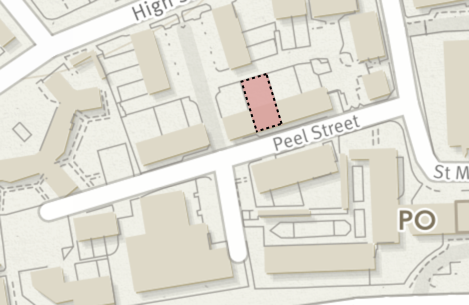
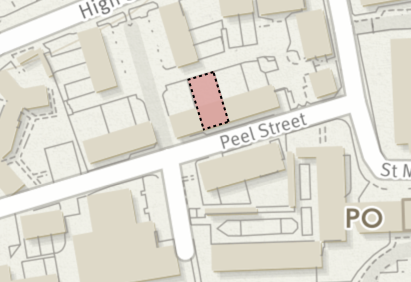
Title plan scripts added

diff --git a/app/views/v2/03-free-property-information.html b/app/views/v2/03-free-property-information.html
@@ -11,30 +11,22 @@
     <h1 class="govuk-heading-l">
       Property information
     </h1>
-  </div>
-</div>
-<div class="govuk-grid-row">
+    </div>
     <div class="govuk-grid-column-two-thirds">
         <div class="app-flex-grid app-address-display">
             <p class="app-flex-item app-flex-grid-header">Address:</p>
             <p id="app-address-to-display" class="app-flex-item app-flex-grid-body">
             </p>
         </div>
-    </div>
-    <div class="govuk-grid-column-one-third">
-        <img src="{{ asset_path }}/images/clinton-street-extent.png" class="app-map">
-    </div>
-</div>
-<div class="govuk-grid-row">
-    <div class="govuk-grid-column-two-thirds">
+
         <p>There's <b>1</b> property record (title) for this address.</p>
 
         <dl class="govuk-summary-list">
             <div class="govuk-summary-list__row">
-              <dt class="govuk-summary-list__key">
+                <dt class="govuk-summary-list__key">
                 Tenure type
-              </dt>
-              <dd class="govuk-summary-list__value">
+                </dt>
+                <dd class="govuk-summary-list__value">
                 Freehold<br>
                 <details class="govuk-details">
                     <summary class="govuk-details__summary">
@@ -48,103 +40,90 @@
                             <p> <b> If you want to know who owns a particular flat, you probably need the leasehold instead. </b> </p>
                             <p> Houses can also be leasehold and usually are if they’re bought through a shared ownership scheme.</p>
                         </div>
-                 </details>
-              </dd>
+                    </details>
+                </dd>
             </div>
             <div class="govuk-summary-list__row">
-              <dt class="govuk-summary-list__key">
+                <dt class="govuk-summary-list__key">
                 Most recent price paid
-              </dt>
-              <dd class="govuk-summary-list__value">
+                </dt>
+                <dd class="govuk-summary-list__value">
                 This property sold for <b> <span id="app-property-price">&pound;300,000</span> </b> on <b> <span id="app-property-sold-date">15 May 2014</span></b>
-              </dd>
+                </dd>
             </div>
             <div class="govuk-summary-list__row">
-              <dt class="govuk-summary-list__key">
+                <dt class="govuk-summary-list__key">
                 Restrictive covenants
-              </dt>
-<<<<<<< HEAD
-              <dd class="govuk-summary-list__value" id="app-covenants-indicator">
+                </dt>
+                <dd class="govuk-summary-list__value" id="app-covenants-indicator">
                 There are restrictive covenants recorded in the register- to view details you'll need to pay a fee
-=======
-              <dd class="govuk-summary-list__value">
-                There are restrictive covenants recorded in the register
-                <b> OR</b> There are restrictive covenants recorded in the register - for more details you'll need to pay a fee. 
->>>>>>> 107130a1b7d9a66dd11979e81c16bada575e51e7
-              </dd>
+                </dd>
             </div>
             <div class="govuk-summary-list__row">
-              <dt class="govuk-summary-list__key">
-               Easements
-              </dt>
-<<<<<<< HEAD
-              <dd class="govuk-summary-list__value" id="app-easements-indicator">
+                <dt class="govuk-summary-list__key">
+                Easements
+                </dt>
+                <dd class="govuk-summary-list__value" id="app-easements-indicator">
                 There are easements recorded in the register- to view details you'll need to pay a fee
-=======
-              <dd class="govuk-summary-list__value">
-                There are no easements recorded in the register
->>>>>>> 107130a1b7d9a66dd11979e81c16bada575e51e7
-              </dd>
+                </dd>
             </div>
         </dl>
 
         <p class="govuk-!-font-weight-bold">Keep a copy of the information on this page for free:</p>
 
-            <ul class="govuk-list govuk-list--bullet">
-              <li> <a href="print"> print </a>
-              <li> <a href="download"> download </a>
-              <li> <a href="forward to an email address"> forward to an email address </a>
-            </ul>
+        <ul class="govuk-list govuk-list--bullet">
+            <li> <a href="print"> print </a>
+            <li> <a href="download"> download </a>
+            <li> <a href="forward to an email address"> forward to an email address </a>
+        </ul>
 
-            <div class="govuk-warning-text">
-                <span class="govuk-warning-text__icon app-information-icon" aria-hidden="true">i</span>
-                <strong class="govuk-warning-text__text">
-                    <span class="govuk-warning-text__assistive">Information</span>
-                    We may have more information about this property if it's been recorded in the register.
-                </strong>
-            </div>
+        <div class="govuk-warning-text">
+            <span class="govuk-warning-text__icon app-information-icon" aria-hidden="true">i</span>
+            <strong class="govuk-warning-text__text">
+                <span class="govuk-warning-text__assistive">Information</span>
+                We may have more information about this property if it's been recorded in the register.
+            </strong>
+        </div>
 
-            <p>You'll need an email address and a debit or credit card to view:</p>
-            <ul class="govuk-list govuk-list--bullet">
-                <li>a summary of the property ownership</li>
-                <li>if there's a mortgage and who the lender is</li>
-                <li>details of any restrictive covenants- these limit what the owner can legally do with their property </li>
-                <li>details of any easements- rights to cross or otherwise use someone else's land for a specified purpose </li>
-                <li>the title extent for leasehold properties</li>
-                <li>a copy of the register</li>
-            </ul>
+        <p>You'll need an email address and a debit or credit card to view:</p>
+        <ul class="govuk-list govuk-list--bullet">
+            <li>a summary of the property ownership</li>
+            <li>if there's a mortgage and who the lender is</li>
+            <li>details of any restrictive covenants- these limit what the owner can legally do with their property </li>
+            <li>details of any easements- rights to cross or otherwise use someone else's land for a specified purpose </li>
+            <li>the title extent for leasehold properties</li>
+            <li>a copy of the register</li>
+        </ul>
 
-            <table class="govuk-table">
-                <caption class="govuk-table__caption">Fees</caption>
-                <thead class="govuk-table__head">
-                    <tr class="govuk-table__row">
-                        <th class="govuk-table__header" scope="col">Thing</th>
-                        <th class="govuk-table__header" scope="col">Price</th>
-                    </tr>
-                </thead>
-                <tbody class="govuk-table__body">
-                    <tr class="govuk-table__row">
-                        <th class="govuk-table__header" scope="row">A</th>
-                        <td class="govuk-table__cell">&pound;tbc</td>
-                    </tr>
-                    <tr class="govuk-table__row">
-                        <th class="govuk-table__header" scope="row">B</th>
-                        <td class="govuk-table__cell">&pound;tbc</td>
-                    </tr>
-                    <tr class="govuk-table__row">
-                        <th class="govuk-table__header" scope="row">C</th>
-                        <td class="govuk-table__cell">&pound;tbc</td>
-                    </tr>
-                </tbody>
-            </table>
+        <table class="govuk-table">
+            <caption class="govuk-table__caption">Fees</caption>
+            <thead class="govuk-table__head">
+                <tr class="govuk-table__row">
+                    <th class="govuk-table__header" scope="col">Thing</th>
+                    <th class="govuk-table__header" scope="col">Price</th>
+                </tr>
+            </thead>
+            <tbody class="govuk-table__body">
+                <tr class="govuk-table__row">
+                    <th class="govuk-table__header" scope="row">A</th>
+                    <td class="govuk-table__cell">&pound;tbc</td>
+                </tr>
+                <tr class="govuk-table__row">
+                    <th class="govuk-table__header" scope="row">B</th>
+                    <td class="govuk-table__cell">&pound;tbc</td>
+                </tr>
+                <tr class="govuk-table__row">
+                    <th class="govuk-table__header" scope="row">C</th>
+                    <td class="govuk-table__cell">&pound;tbc</td>
+                </tr>
+            </tbody>
+        </table>
 
         <p><a href="04-email" role="button" class="govuk-button govuk-!-margin-top-2 govuk-!-margin-bottom-8">Continue</a></p>
     </div>
+    <div class="govuk-grid-column-one-third">
+        <img src="" class="app-map">
+        <p><a href="00-view-title-plan" id="app-link-from-03">View title plan</a></p>
+    </div>
 </div>
-
-<script>
-    let test = sessionStorage.getItem('address');
-    console.log(test);
-</script>
-
 {% endblock %}

diff --git a/app/assets/javascripts/application.js b/app/assets/javascripts/application.js
@@ -31,8 +31,15 @@ $(document).ready(function () {
     $('#app-address-to-display, .app-address-to-display').html($addressToDisplay + '<br>Plymouth<br>PL1 3SB');
     $('#app-easements-indicator').text('There are no easements recorded in the register');
     $('#app-covenants-indicator').text('There are no restrictive covenants recorded in the register');
+    $('.app-map').attr('src', '/public//images/peel-street-extent.png');
+    $('.app-map_large').attr('src', '/public//images/peel-street-extent_large.png');
   } else if ($addressToDisplay.indexOf("Clinton") !== -1) {
     $('#app-address-to-display, .app-address-to-display').html($addressToDisplay + '<br>Exeter<br>EX4 1AX');
+    $('.app-map').attr('src', '/public//images/clinton-street-extent.png');
+    $('.app-map_large').attr('src', '/public//images/clinton-street-extent_large.png');
+    $('#app-property-price').text('£450,000');
+    $('#app-property-sold-date').text('23 November 2005');
+    $('#app-button__pay-successful').attr('href', '08b-paid-property-information');
   } else if ($addressToDisplay.indexOf("False") !== -1) {
     $('#app-address-to-display, .app-address-to-display').html($addressToDisplay + '<br>Bristol<br>BS4 7SB');
     $('#app-property-price').text('£450,000');
@@ -40,3 +47,16 @@ $(document).ready(function () {
     $('#app-button__pay-successful').attr('href', '08b-paid-property-information');
   }
 });
+
+$('#app-link-from-03').on('click', function() {
+  sessionStorage.setItem('linkBackHref', '03-free-property-information');
+});
+$('#app-link-from-08').on('click', function() {
+  sessionStorage.setItem('linkBackHref', '08-paid-property-information');
+});
+$('#app-link-from-08b').on('click', function() {
+  sessionStorage.setItem('linkBackHref', '08b-paid-property-information');
+});
+
+let $linkBackHref = sessionStorage.getItem('linkBackHref');
+$('.app-back-link').attr('href', $linkBackHref);

diff --git a/app/views/v2/08b-paid-property-information.html b/app/views/v2/08b-paid-property-information.html
@@ -19,15 +19,7 @@
             <p class="app-flex-item app-flex-grid-header">Address:</p>
             <p id="app-address-to-display" class="app-flex-item app-flex-grid-body"></p>
         </div>
-    </div>
-    <div class="govuk-grid-column-one-third">
-        <p>Map will go here</p>
-    </div>
-</div>
-<div class="govuk-grid-row">
-    <div class="govuk-grid-column-two-thirds">
-
-       <p>There's <b>1</b> property record (title) for this address.</p>
+        <p>There's <b>1</b> property record (title) for this address.</p>
 
         <dl class="govuk-summary-list">
             <div class="govuk-summary-list__row">
@@ -120,6 +112,11 @@
                <li> <a href="forward to an email address"> forward to an email address </a>
              </ul>
           <!-- <p><a href="01-start" role="button" class="govuk-button govuk-!-margin-top-2 govuk-!-margin-bottom-8">Continue</a></p> -->
+
+    </div>
+    <div class="govuk-grid-column-one-third">
+        <img src="" class="app-map">
+        <p><a href="00-view-title-plan" id="app-link-from-08b">View title plan</a></p>
     </div>
 </div>
 

diff --git a/app/views/v2/00-view-title-plan.html b/app/views/v2/00-view-title-plan.html
@@ -1,0 +1,31 @@
+{% extends "layout.html" %}
+
+{% block pageTitle %}
+  Title plan
+{% endblock %}
+
+{% block content %}
+<div class="govuk-grid-row">
+    <div class="govuk-grid-column-two-thirds">
+
+        <h1 class="govuk-heading-l">
+        Title plan for
+        </h1>
+        <p id="app-address-to-display" class="govuk-!-font-size-24"></p>
+        <div class="govuk-warning-text">
+            <span class="govuk-warning-text__icon app-information-icon" aria-hidden="true">i</span>
+            <strong class="govuk-warning-text__text">
+                <span class="govuk-warning-text__assistive">Information</span>
+                This is an approximate title extent.
+            </strong>
+        </div>
+        <p><a href="#" class="app-back-link">Back to property details</a></p>
+    </div>
+</div>
+<div class="govuk-grid-row">
+    <div class="govuk-grid-column-full">
+        <img src="" class="app-map_large">
+    </div>
+</div>
+
+{% endblock %}

diff --git a/app/views/v2/08-paid-property-information.html b/app/views/v2/08-paid-property-information.html
@@ -21,13 +21,6 @@
 
             </p>
         </div>
-    </div>
-    <div class="govuk-grid-column-one-third">
-        <img src="{{ asset_path }}/images/clinton-street-extent.png" class="app-map">
-    </div>
-</div>
-<div class="govuk-grid-row">
-    <div class="govuk-grid-column-two-thirds">
         <p>There's <b>1</b> property record (title) for this address.</p>
 
         <dl class="govuk-summary-list">
@@ -122,8 +115,15 @@
               <li> <a href="download"> download </a>
                <li> <a href="forward to an email address"> forward to an email address </a>
              </ul>
-          <!-- <p><a href="01-start" role="button" class="govuk-button govuk-!-margin-top-2 govuk-!-margin-bottom-8">Continue</a></p> -->
+
+
+
+    </div>
+    <div class="govuk-grid-column-one-third">
+        <img src="" class="app-map">
+        <p><a href="00-view-title-plan" id="app-link-from-08">View title plan</a></p>
     </div>
 </div>
+
 
 {% endblock %}

diff --git a/app/assets/sass/application.scss b/app/assets/sass/application.scss
@@ -70,7 +70,8 @@ $govuk-global-styles: true;
     padding: 1em;
 }
 
-.app-map {
+.app-map,
+.app-map_large {
     width: 100%;
     height: auto;
 }
